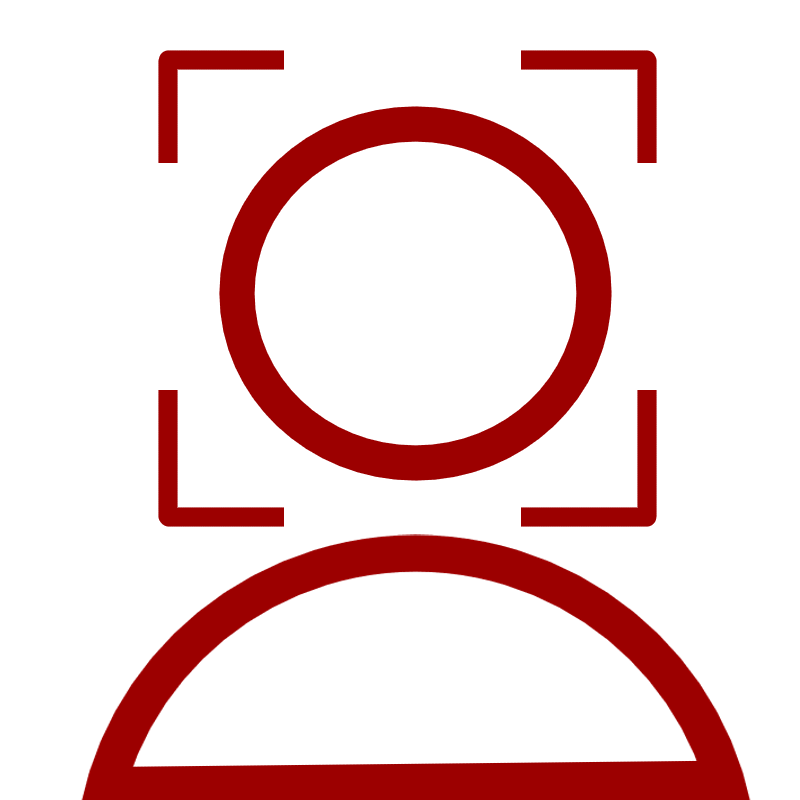
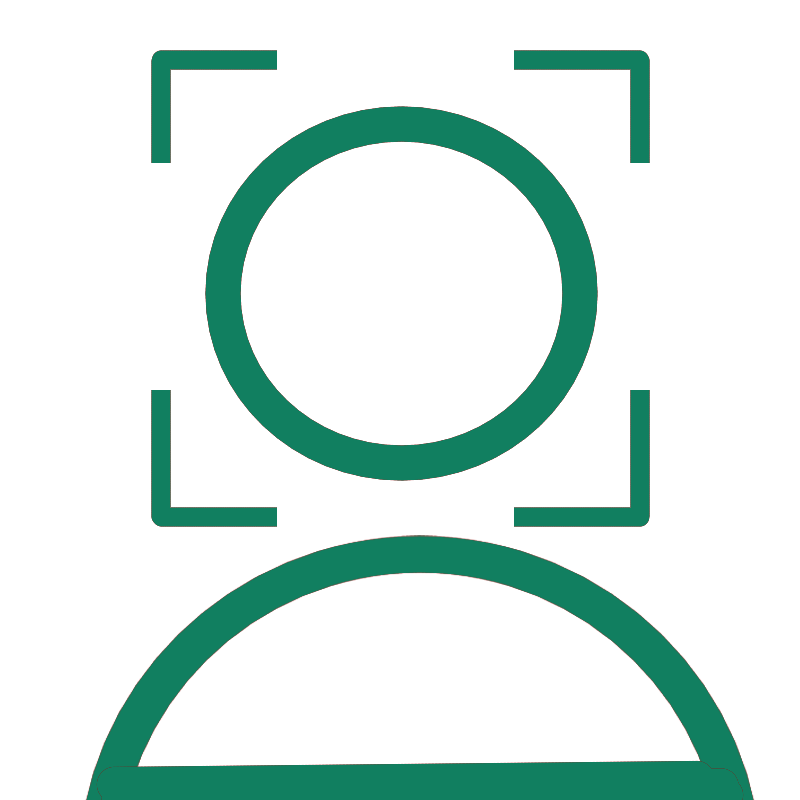
Changed colors

diff --git a/src/app/loginview/loginview.component.css b/src/app/loginview/loginview.component.css
@@ -9,18 +9,18 @@ body {
     font-size: 14px;
 }
 #element {
-	caret-color: rgba(156,0,0,1);
+	caret-color: #117f60;
 }
 textarea:focus, input:focus, input[type]:focus, .uneditable-input:focus {   
-    border-color: rgba(156,0,0,1);
-    box-shadow: 0 1px 1px rgba(229, 103, 23, 0.075) inset, 0 0 8px rgba(159, 0, 0, 0.6);
+    border-color: #117f60;
+    box-shadow: 0 1px 1px rgba(229, 103, 23, 0.075) inset, 0 0 8px #117f60;
     outline: 0 none;
 }
 /* General styles */
 .login_view_container {
     width: 100%;
     height: 100%;
-    background: rgba(28,28,28,1);
+    background: #2c2c2c;
     opacity: 1;
     position: absolute;
     top: 0px;
@@ -28,7 +28,7 @@ textarea:focus, input:focus, input[type]:focus, .uneditable-input:focus {
     overflow: hidden;
 }
 .center_container {
-    background: rgba(12,12,12,1);
+    background: #262626;
     opacity: 1;
     position: absolute;
     border-top-left-radius: 15px;
@@ -52,7 +52,7 @@ textarea:focus, input:focus, input[type]:focus, .uneditable-input:focus {
 .login_form_background {
     width: 334px;
     height: 180px;
-    background: rgba(0,0,0,1);
+    background: #282828;
     opacity: 1;
     border-top-left-radius: 13px;
     border-top-right-radius: 13px;
@@ -61,7 +61,7 @@ textarea:focus, input:focus, input[type]:focus, .uneditable-input:focus {
     overflow: hidden;
 }
 .chevron_icon {
-    color: rgba(156,0,0,1);
+    color: #117f60;
     width: 25px;
     height: 25px;
     opacity: 1;
@@ -69,11 +69,11 @@ textarea:focus, input:focus, input[type]:focus, .uneditable-input:focus {
     -webkit-text-stroke: 2px;
 }
 .input_text {
-    background-color: rgba(0,0,0,1);
+    background-color: #282828;
     border-radius: 13px;
-    border-color: rgba(156,0,0,1);
+    border-color: #117f60;
     border-width: 0px;
-    caret-color: rgba(156,0,0,1);
+    caret-color: #117f60;
 }
 .input_text:hover {
     border-width: 0px;
@@ -123,8 +123,8 @@ textarea:focus, input:focus, input[type]:focus, .uneditable-input:focus {
     position: absolute;
     overflow: hidden;
     border-radius: 13px;
-    border: 1px solid rgba(156,0,0,1);
-    box-shadow: 0 4px rgb(156, 0, 0);
+    border: 1px solid #117f60;
+    box-shadow: 0 4px #117f60;
     position: absolute;
     top: 70%;
     left: 60px;
@@ -136,15 +136,16 @@ textarea:focus, input:focus, input[type]:focus, .uneditable-input:focus {
   box-shadow: 0 0.5em 0.5em -0.4em var(--hover);
   /*transform: translateY(-0.25em);*/
 
-  box-shadow: 0 4px rgb(156, 0, 0);
+  box-shadow: 0 4px #117f60;
 }
 .login_button:hover,
 .login_button:focus {
     color: rgb(210,210,210,1);
 }
 .login_button:active {
-    box-shadow: 0 5px rgb(156, 0, 0,1);
+    box-shadow: 0 5px #117f60;
     transform: translateY(3px);
+
 }
 
 

diff --git a/src/app/facedetection/facedetection.component.css b/src/app/facedetection/facedetection.component.css
@@ -10,8 +10,8 @@
 }
 
 .camera_background {
-  background: rgba(12,12,12,1);
-  border: 4px solid rgba(156,0,0,1);
+  background: #262626;
+  border: 4px solid #117f60;
   border-radius: 13px;
   position: relative;
   margin: 0 auto;
@@ -32,15 +32,15 @@
   background-size: cover;
   width: 100%;
   height: 100%;
-  background: rgba(0,0,0,1);
+  background: #282828;
   position: absolute;
   border-radius: 13px;
   overflow: hidden;
 }
 .rsubmenu_button {
   border-radius: 13px;
-  border: 1px solid rgba(156,0,0,1);
-  box-shadow: 0 4px rgb(156, 0, 0);
+  border: 1px solid #117f60;
+  box-shadow: 0 4px #117f60;
   position: absolute;
   overflow: hidden;
   left: 25%;
@@ -53,17 +53,17 @@
   background-size: cover;
   width: 100%;
   height: 100%;
-  background: rgba(12,12,12,1);
+  background: #282828;
   position: absolute;
   top: 0px;
   left: 0px;
 }
 .rsubmenu_button:hover .button_background {
-  background: rgb(0, 0, 0);
-  border-color: rgba(156,0,0,1);
+  background: #282828;
+  border-color: #117f60;
 }
 .rsubmenu_button:active {
-    box-shadow: 0 5px rgb(156, 0, 0,1);
+    box-shadow: 0 5px #117f60;
     transform: translateY(3px);
 }
 .button_Text { 
@@ -80,7 +80,7 @@
 }
 .rsubmenu_button:disabled,
 .rsubmenu_button[disabled]{
-  box-shadow: 0 5px rgb(156, 0, 0,1);
+  box-shadow: 0 5px #117f60;
   transform: translateY(3px);
 }
 

diff --git a/src/app/navbar/navbar.component.css b/src/app/navbar/navbar.component.css
@@ -26,7 +26,7 @@ body {
 .navbar_background {
     width: 100%;
     height: 100%;
-    background: rgba(0,0,0,1);
+    background: #262626;
     opacity: 1;
     position: absolute;
     top: 0px;
@@ -42,7 +42,7 @@ body {
     background-color: Transparent;
     top: 25%;
     border-radius: 50%;
-    color: rgba(156,0,0,1);
+    color: #117f60;
     border-width: 0px;
 }
 
@@ -72,7 +72,7 @@ body {
     left: 62.2%;
 }
 .theme_icon:active {
-    box-shadow: 0 1px rgb(156, 0, 0,1);
+    box-shadow: 0 1px #117f60;
     transform: translateY(1px);
 }
 .language_icon {
@@ -82,7 +82,7 @@ body {
     left: 1%;
 }
 .activate_sidebar_icon:active {
-    box-shadow: 0 1px rgb(156, 0, 0,1);
+    box-shadow: 0 1px #117f60;
     transform: translateY(1px);
 }
 .bi {
@@ -94,11 +94,11 @@ body {
     position: absolute;
     border-style: solid;
     border-width: 1px;
-    border-color: rgba(156,0,0,1);
+    border-color: #117f60;
     left: 90.3%;
 }
 .avatar_button:active .avatar{
-    box-shadow: 0 1px rgb(156, 0, 0,1);
+    box-shadow: 0 1px #117f60;
     transform: translateY(1px);
 }
 

diff --git a/src/app/home/main_menu/main_menu.component.css b/src/app/home/main_menu/main_menu.component.css
@@ -26,13 +26,13 @@
     position: absolute;
     overflow: hidden;
     border-radius: 13px;
-    border: 1px solid rgba(156,0,0,1);
-    box-shadow: 0 4px rgb(156, 0, 0);
+    border: 1px solid #117f60;
+    box-shadow: 0 4px #117f60;
 }
 .card_background {
     width: 100%;
     height: 100%;
-    background: rgba(12,12,12,1);
+    background: #282828;
     opacity: 1;
     position: absolute;
     top: 0px;
@@ -40,11 +40,11 @@
     overflow: hidden;
 }
 .info_card:hover .card_background {
-    background: rgb(0, 0, 0);
-    border-color: rgba(156,0,0,1);
+    background: #2c2c2c;
+    border-color: #117f60;
 }
 .info_card:active {
-    box-shadow: 0 5px rgb(156, 0, 0,1);
+    box-shadow: 0 5px #117f60;
     transform: translateY(3px);
 }
 .info_card:hover .card_title {

diff --git a/src/app/home/home.component.css b/src/app/home/home.component.css
@@ -1,7 +1,7 @@
 .home_container {
     width: 100%;
     height: 100%;
-    background: rgba(28,28,28,1);
+    background: #2c2c2c;
     opacity: 1;
     position: absolute;
     top: 0px;
